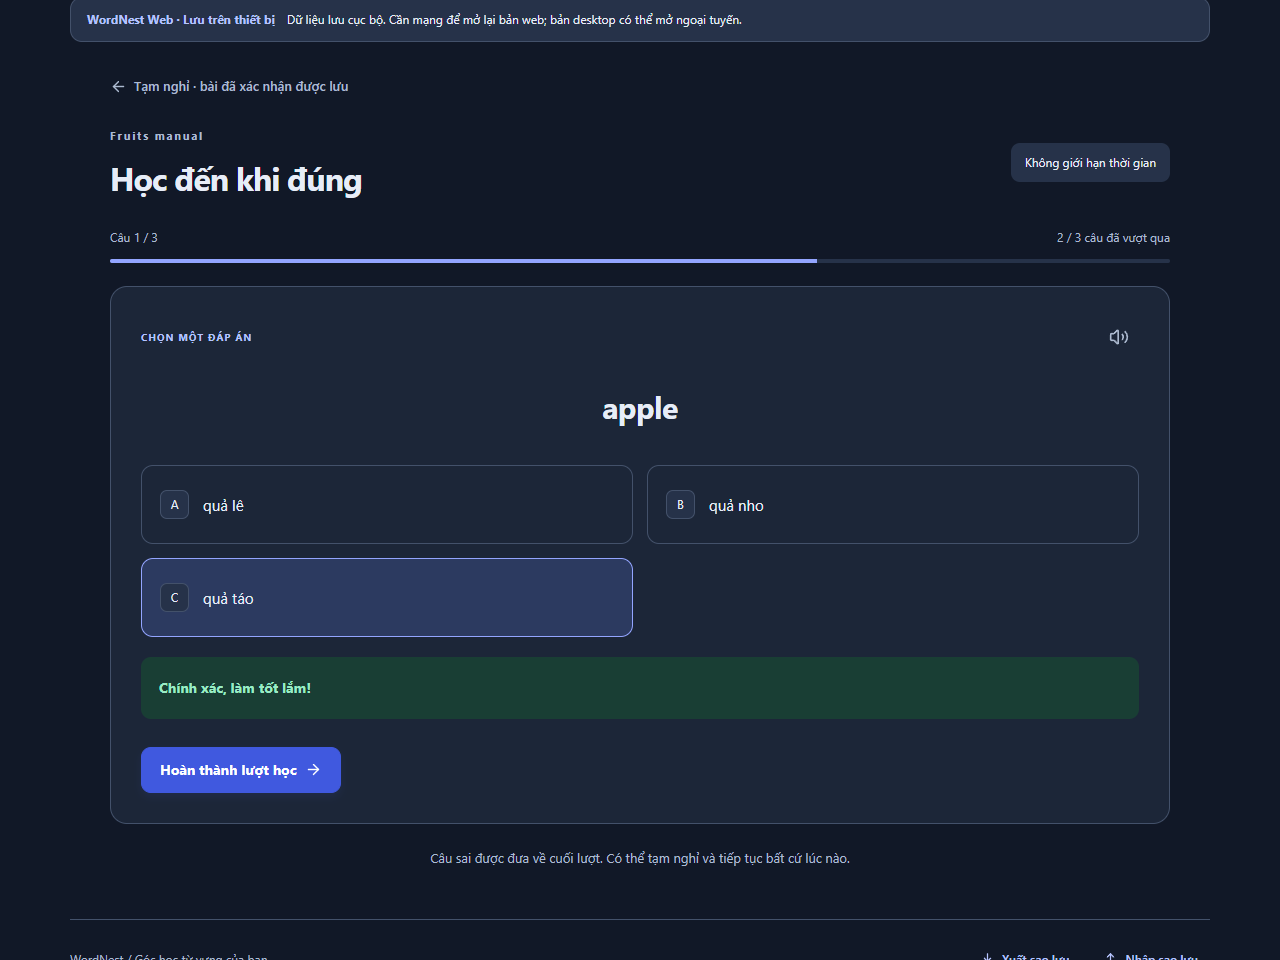
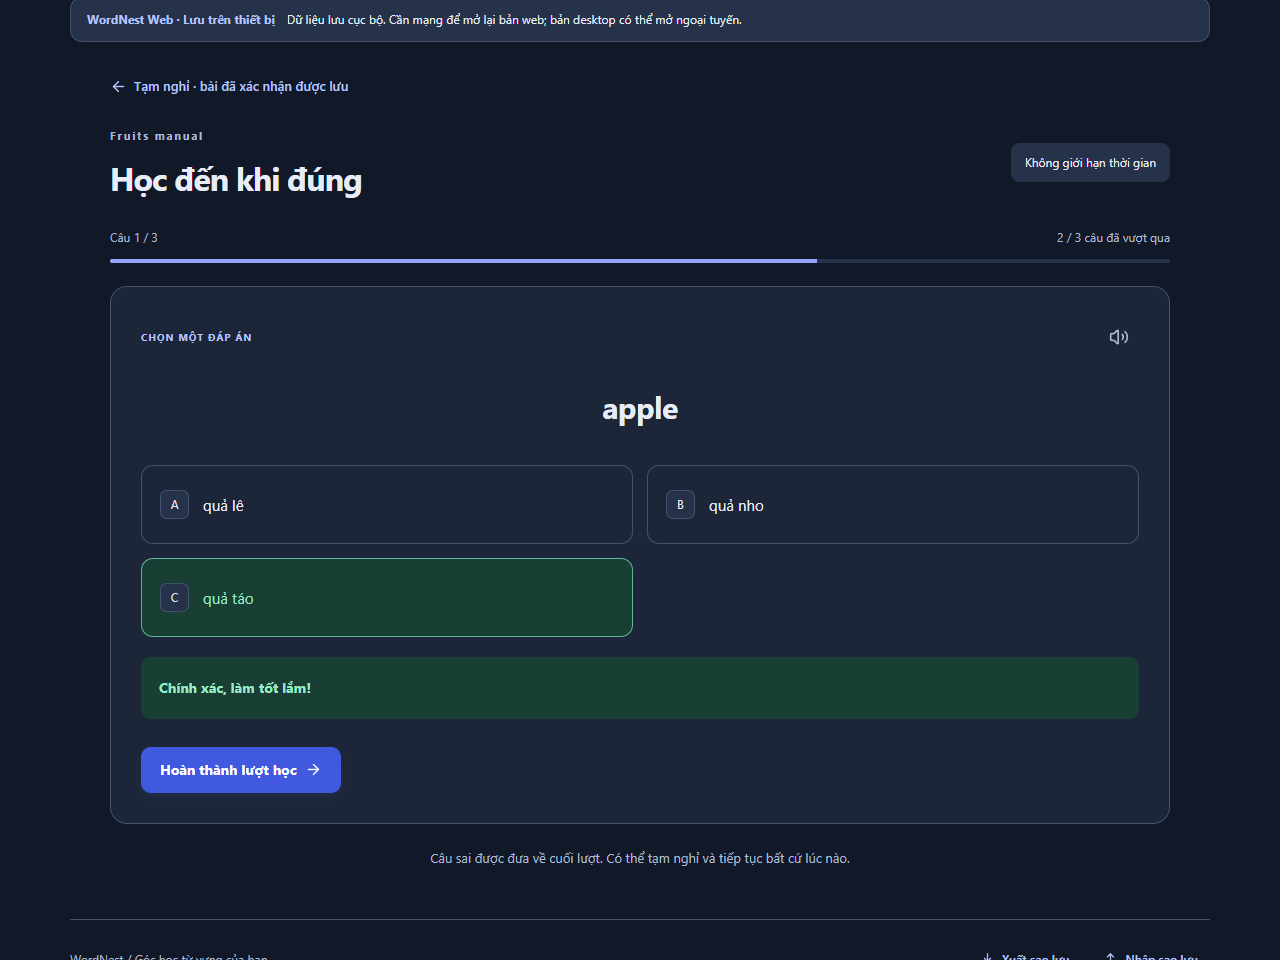
Preserve correct and incorrect answer colors in dark mode

Changed region(s): [[0.0938, 0.5625, 0.5, 0.6875], [0.125, 0.0625, 0.25, 0.0938]]

diff --git a/app/globals.css b/app/globals.css
@@ -1709,8 +1709,8 @@ small {
   margin-right: 8px;
   margin-bottom: 8px;
 }
-.dark
-  :is(
+:root.dark
+  :where(
     .topbar,
     .panel,
     .button:not(.primary):not(.danger-button),
@@ -1731,7 +1731,7 @@ small {
   color: var(--foreground);
   border-color: var(--line);
 }
-.dark :is(input, textarea, select) {
+:root.dark :where(input, textarea, select) {
   background: var(--surface);
   color: var(--foreground);
   border-color: var(--line);
@@ -1744,8 +1744,8 @@ small {
   background: var(--surface) !important;
   color: var(--foreground);
 }
-.dark
-  :is(
+:root.dark
+  :where(
     .import-hero,
     .import-preview,
     .dropzone,
@@ -1764,8 +1764,8 @@ small {
   color: var(--foreground);
   border-color: var(--line);
 }
-.dark
-  :is(
+:root.dark
+  :where(
     .muted,
     .beta,
     .local-badge,
@@ -1802,8 +1802,8 @@ small {
   ) {
   color: var(--muted-text);
 }
-.dark
-  :is(
+:root.dark
+  :where(
     .text-button,
     .pill,
     .deck-link,
@@ -1813,8 +1813,8 @@ small {
   ) {
   color: var(--accent-text);
 }
-.dark
-  :is(
+:root.dark
+  :where(
     .vocab-row,
     .review-row,
     .history-row,
@@ -1835,8 +1835,8 @@ small {
 .dark .main-tabs [data-active] {
   color: var(--accent-text) !important;
 }
-.dark
-  :is(
+:root.dark
+  :where(
     .button:not(.primary):not(.danger-button):hover,
     .icon-button:hover,
     .new-deck-card:hover,
@@ -1849,8 +1849,8 @@ small {
   color: var(--foreground);
   border-color: #93a5ff;
 }
-.dark
-  :is(
+:root.dark
+  :where(
     .positive,
     .answer-option.correct,
     .match-tile.matched,
@@ -1861,22 +1861,22 @@ small {
   color: #9aebc4;
   border-color: #5cb798;
 }
-.dark :is(.negative, .error, .answer-option.incorrect) {
+:root.dark :where(.negative, .error, .answer-option.incorrect) {
   background: #482938;
   color: #ffbdc9;
   border-color: #df8c9e;
 }
-.dark :is(.correct-text, .success-line, .format-note, .rating-2) {
+:root.dark :where(.correct-text, .success-line, .format-note, .rating-2) {
   color: #9aebc4;
 }
-.dark :is(.wrong-text, .danger, .rating-0, .speech-error) {
+:root.dark :where(.wrong-text, .danger, .rating-0, .speech-error) {
   color: #ffbdc9;
 }
-.dark :is(.blue, .deck-icon) {
+:root.dark :where(.blue, .deck-icon) {
   background: #2c3a60;
   color: #b6c4ff;
 }
-.dark :is(.orange, .trophy, .theme-2 .deck-icon) {
+:root.dark :where(.orange, .trophy, .theme-2 .deck-icon) {
   background: #483822;
   color: #f3cd8c;
 }
